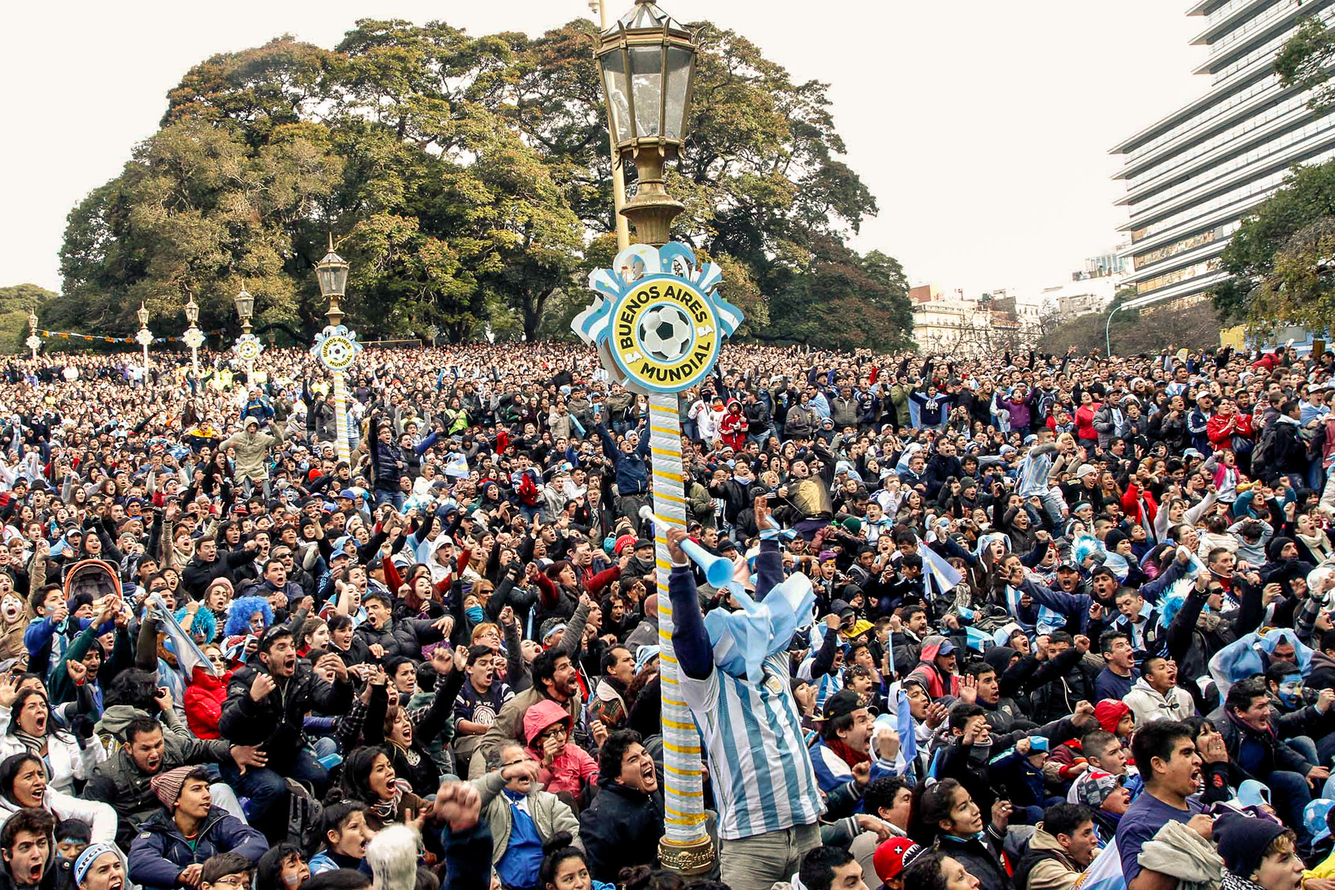
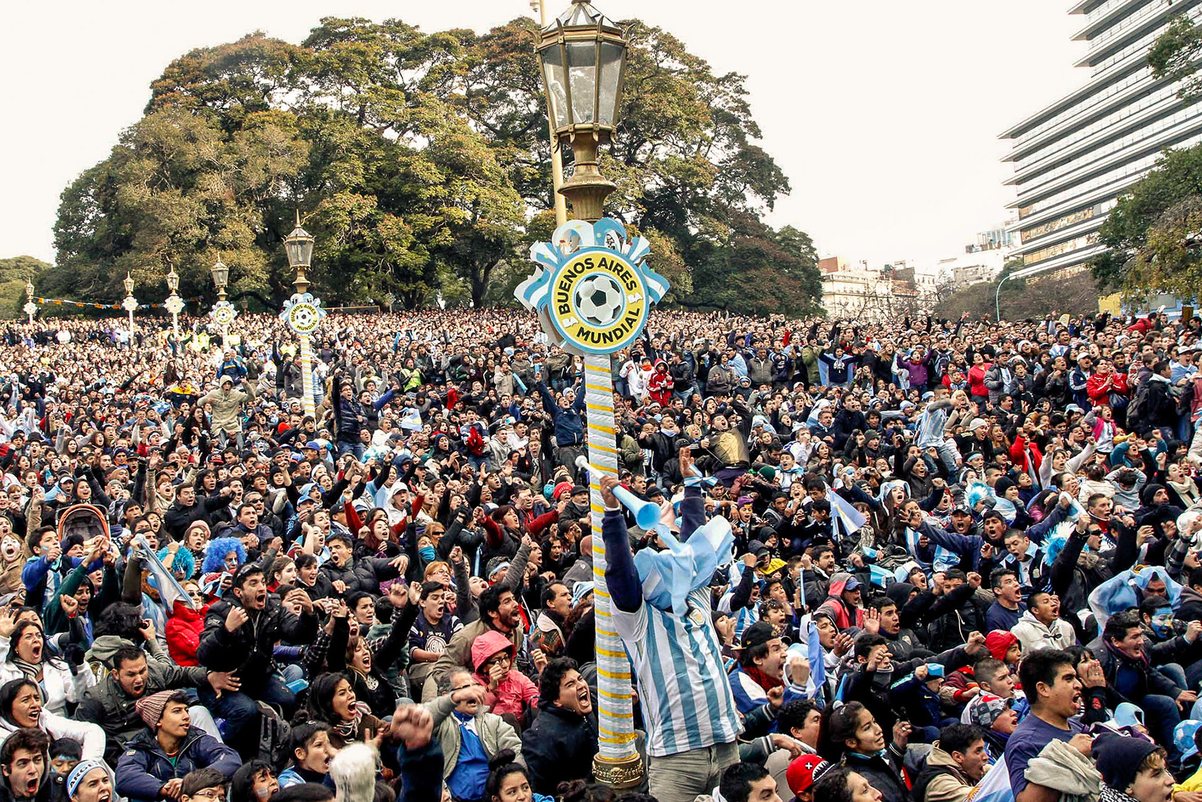
Version lista para publicar, faltan detalles

diff --git a/mundial-sonoro/landing/index.html b/mundial-sonoro/landing/index.html
@@ -12,7 +12,7 @@
   <meta name="twitter:domain" content="http://buenosaires.gob.ar">
   <meta name="twitter:site" content="@mingobba">
   <meta name="twitter:creator" content="@mingobba">
-  <meta name="twitter:image:src" content="http://www.buenosaires.gob.ar/areas/modernizacion/labgcba/simulador-bu/banner-socialmedia.png">
+  <meta name="twitter:image:src" content="http://buenosaires.gob.ar/areas/modernizacion/labgcba/mundial-sonoro-0107/css/img/social.png">
   <meta name="twitter:description" content="Mediante un decibelímetro medimos el nivel de ruido generado por los hinchas argentinos durante el partido y los visualizamos.">
   <meta name="twitter:title" content="¿Cómo vivimos el partido Argentina - Suiza? #BAMundial">
   <meta name="twitter:url" content="http://buenosaires.gob.ar/areas/modernizacion/labgcba/mundial-sonoro-0107/">
@@ -20,7 +20,7 @@
   <meta property="og:title" content="¿Cómo vivimos el partido Argentina - Suiza? #BAMundial"/>
   <meta property="og:site_name" content="Simulador BAmundial"/>
   <meta property="og:description" content="Mediante un decibelímetro medimos el nivel de ruido generado por los hinchas argentinos durante el partido y los visualizamos."/>
-  <meta property="og:image" content="http://www.buenosaires.gob.ar/areas/modernizacion/labgcba/simulador-bu/banner-socialmedia.png" />
+  <meta property="og:image" content="http://buenosaires.gob.ar/areas/modernizacion/labgcba/mundial-sonoro-0107/css/img/social.png" />
   <meta property="og:image:type" content="image/png" />
   <meta property="og:image:width" content="250" />
   <meta property="og:image:height" content="250" />

diff --git a/mundial-sonoro/landing/css/base.scss b/mundial-sonoro/landing/css/base.scss
@@ -81,7 +81,7 @@ header {
     img {height:100%; max-height: 100%; max-width: 100%}
     .panel_01{ 
         float: left;
-        background: url('img/bamundial2-2blur.jpg') no-repeat center center;
+        background: url('img/bamundial2-2.jpg') no-repeat center center;
     }
     .panel_02{ float: left;}
     .panel_03{ float: left;}

diff --git a/mundial-sonoro/landing/css/base.css b/mundial-sonoro/landing/css/base.css
@@ -65,7 +65,7 @@ header {
     max-width: 100%; }
   #contenido .panel_01 {
     float: left;
-    background: url("img/bamundial2-2blur.jpg") no-repeat center center; }
+    background: url("img/bamundial2-2.jpg") no-repeat center center; }
   #contenido .panel_02 {
     float: left; }
   #contenido .panel_03 {
